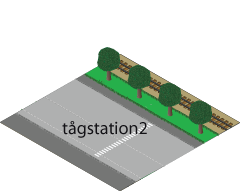
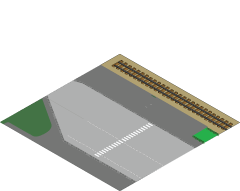
nya bilder till stationerna o en ändring i maplogic

diff --git a/Frontend/site/content/maplogic.js b/Frontend/site/content/maplogic.js
@@ -547,15 +547,25 @@ function generateTiles() {
 
 
         //tågstationer
-        if(i == 102 || i == 107)
-        {
-            mapnumber = "trainstation2";
+        if (i == 102 || i == 107 || i == 88 || i == 93) {
             tiletype = "trainstation";
-        }
+             
+            if (i == 102) {
+                mapnumber = "trainstation2";
 
-        if (i == 88 || i == 93) {
-            mapnumber = "trainstation1";
-            tiletype = "trainstation";
+            } else if(i == 107)
+            {
+                mapnumber = "trainstation3";
+            } else if(i == 88)
+            {
+                mapnumber = "trainstation4";
+            } else
+            {
+                mapnumber = "trainstation1";
+            }
+
+
+           
         }
 
 
